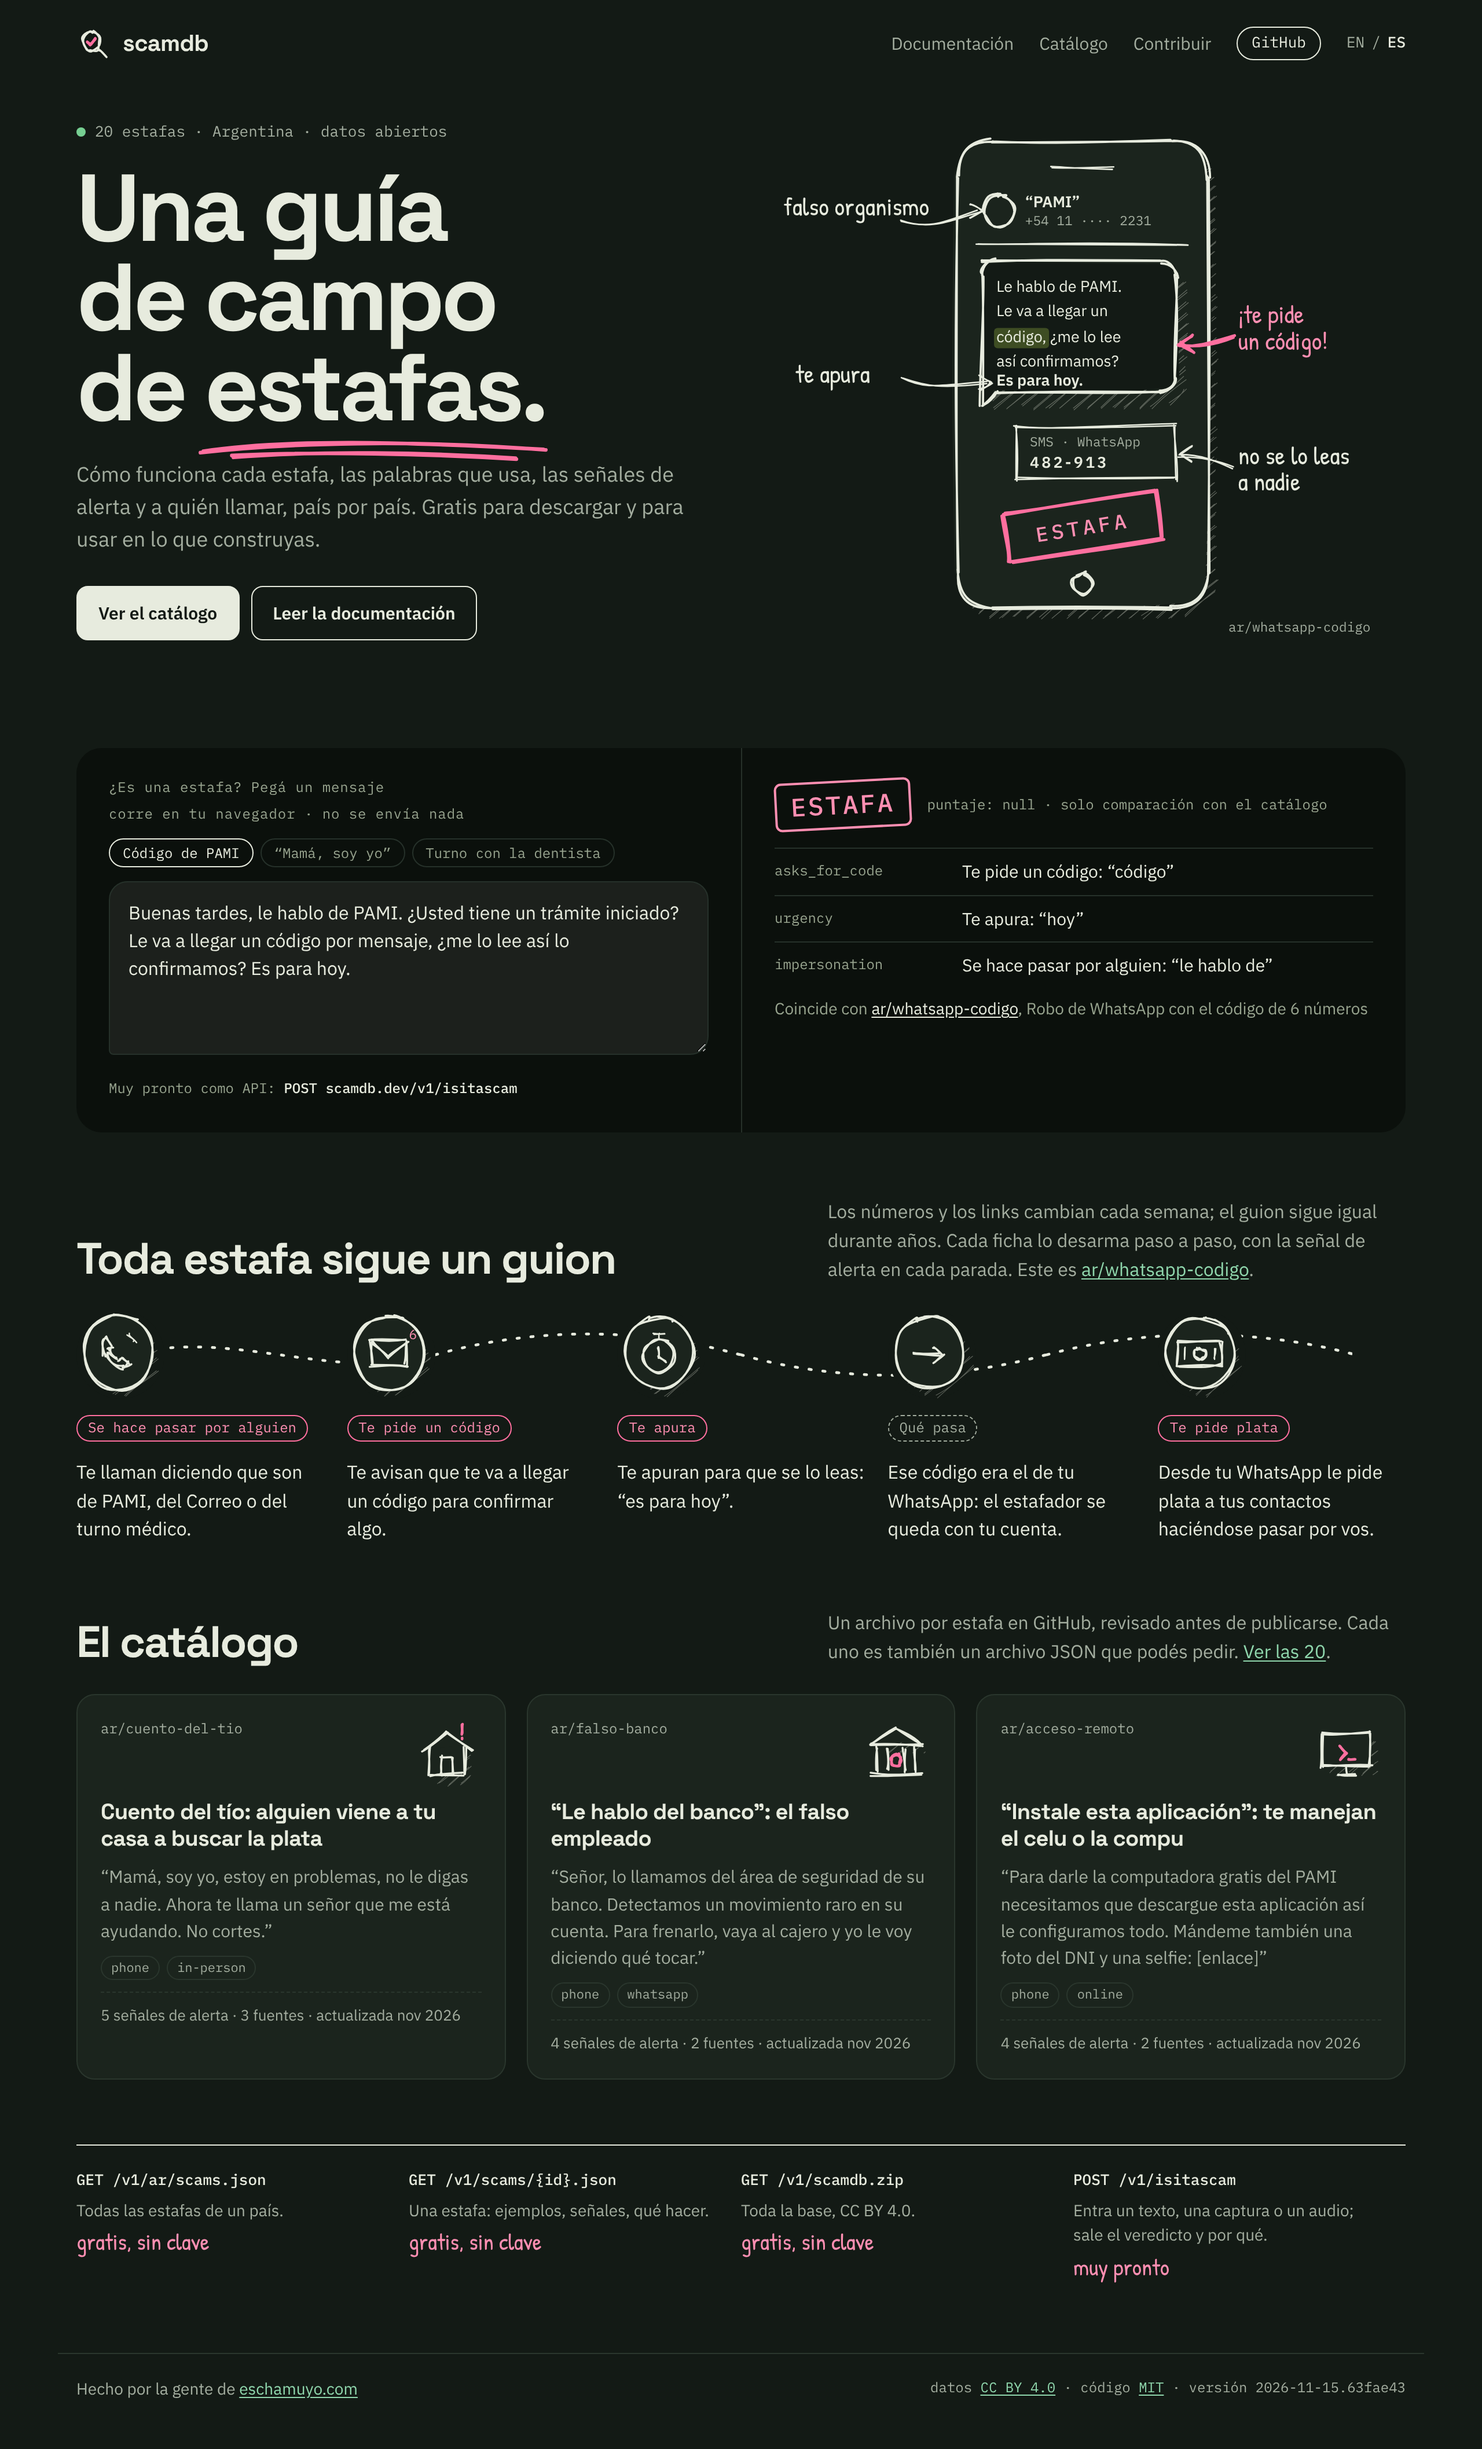
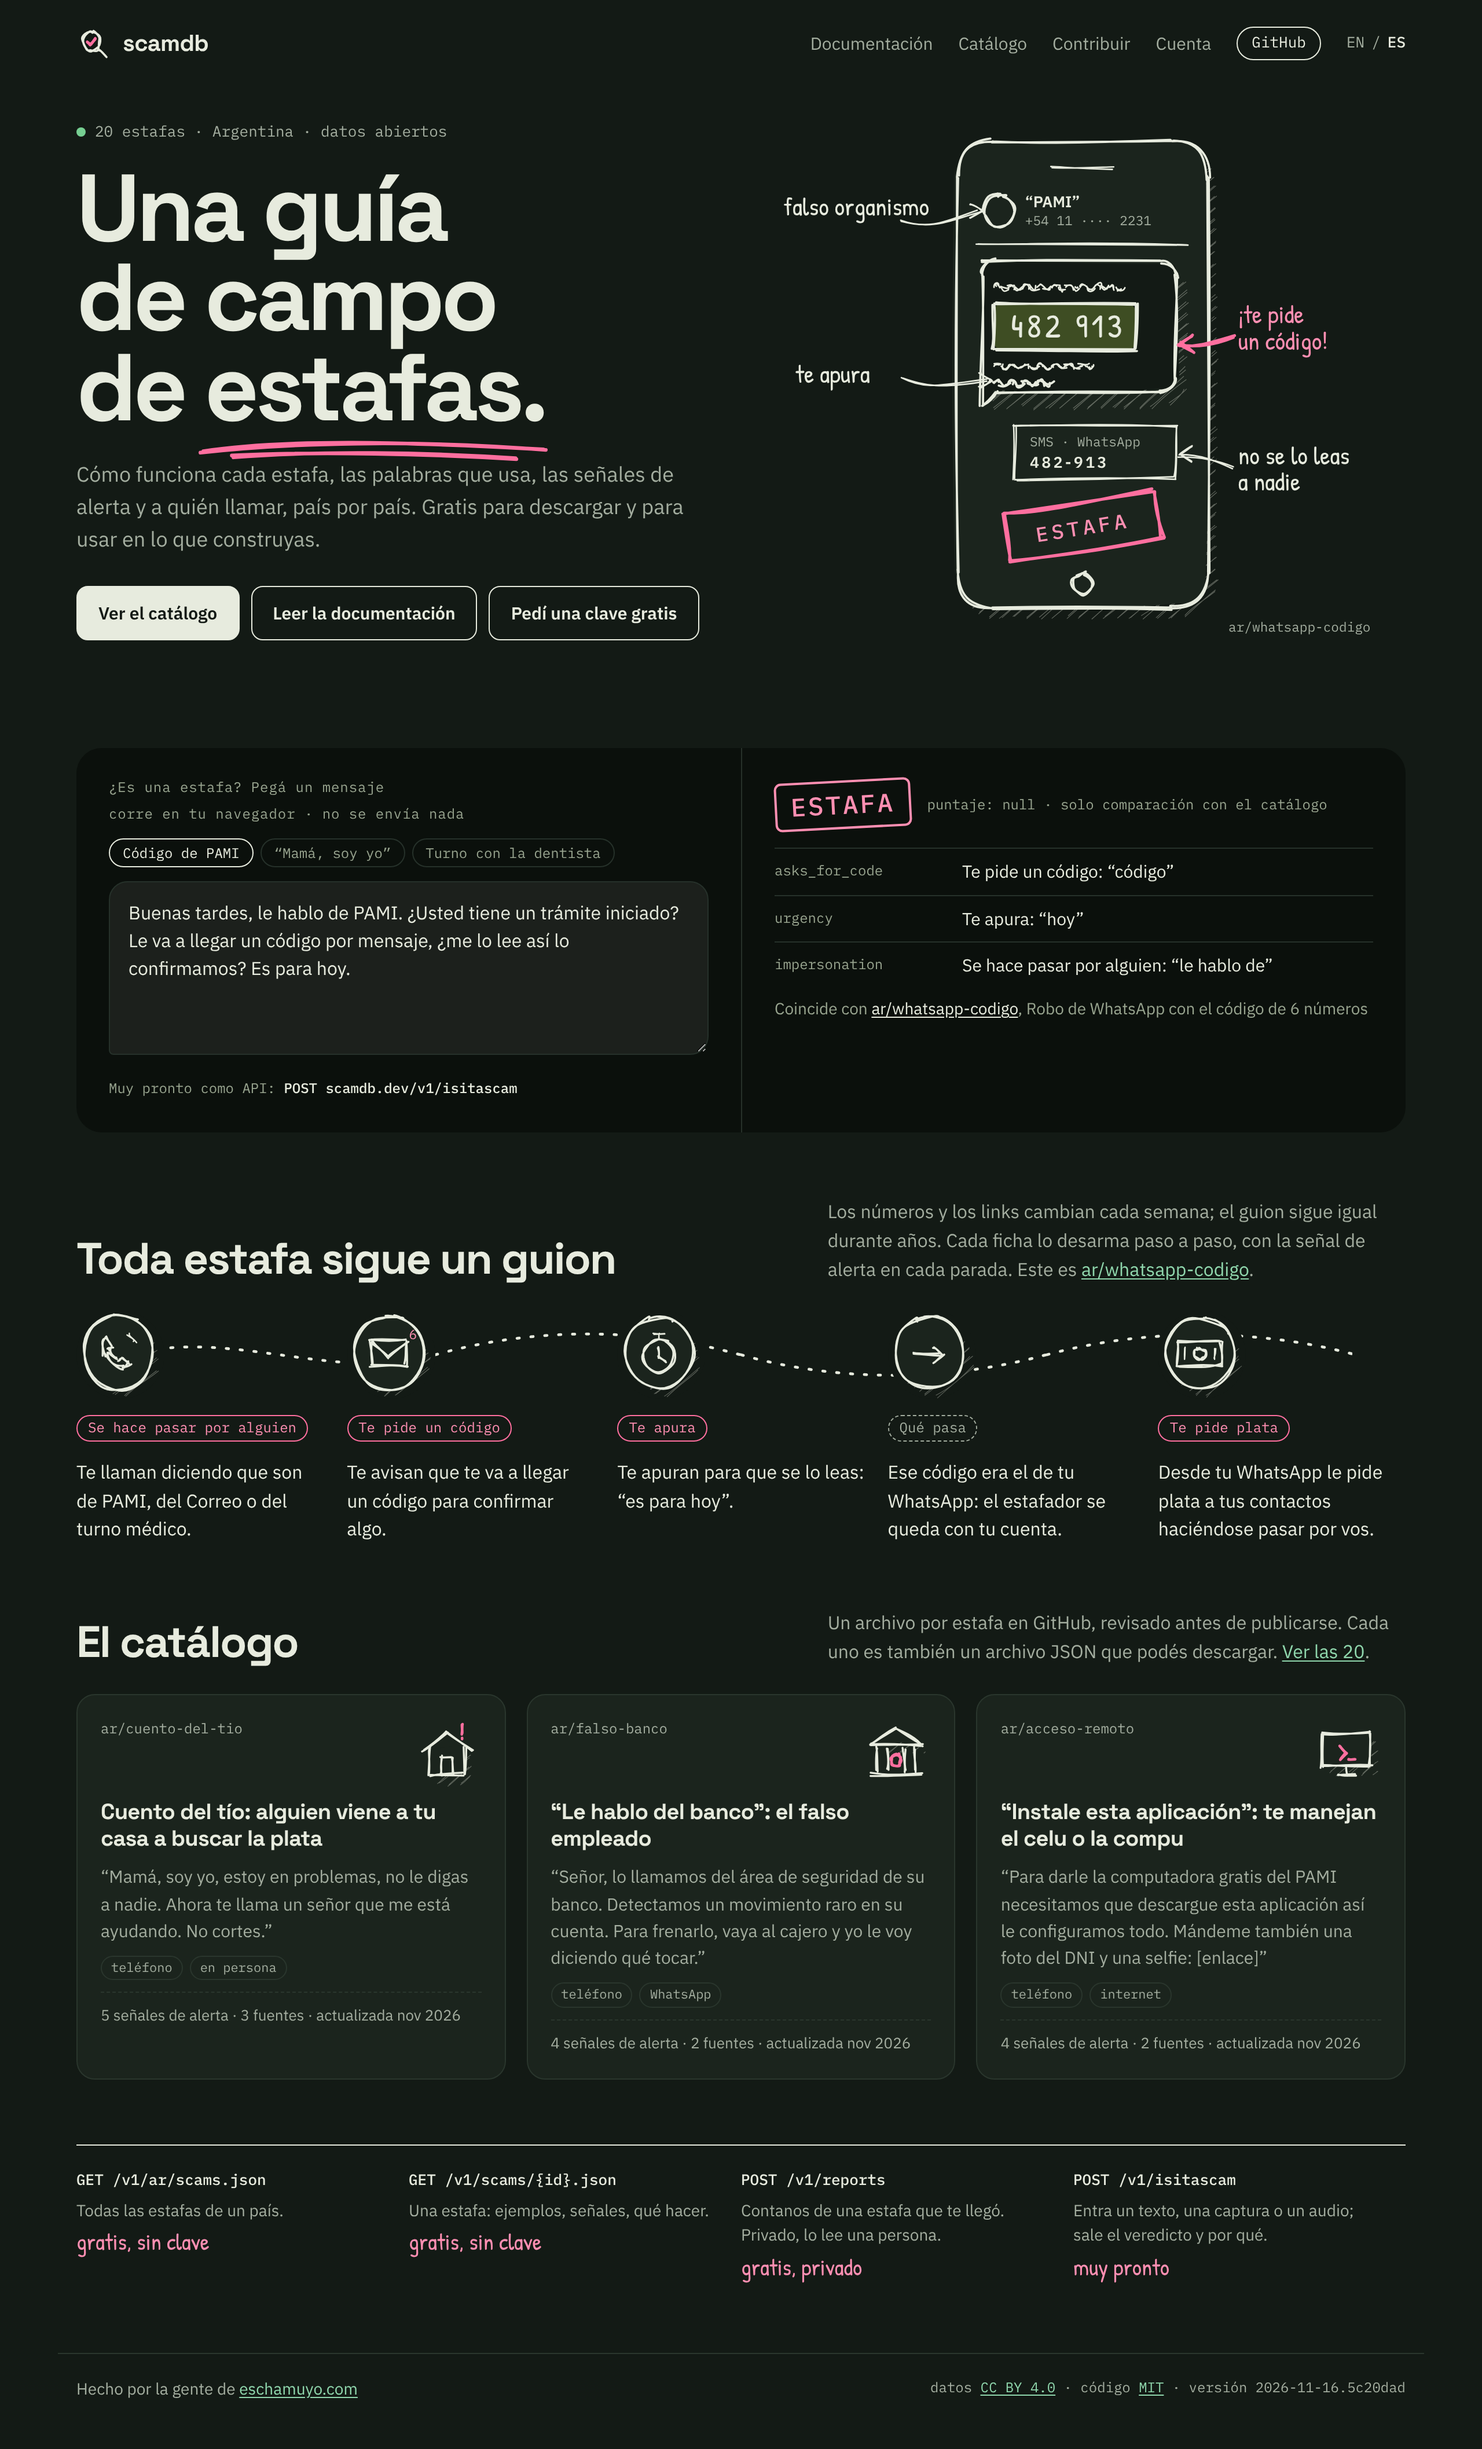
feat(site): hero bubble shows a scribble and a big code instead of a Spanish sentence
Claude-Session: https://claude.ai/code/session_018T2J1K6Mk5un4HEeZgARrY

Changed region(s): [[0.6562, 0.0936, 0.7812, 0.156], [0.5, 0.8738, 0.5938, 0.9362], [0.8438, 0.6553, 0.875, 0.6865]]

diff --git a/site/templates/home.js b/site/templates/home.js
@@ -14,6 +14,9 @@ export const SAMPLES = [
 ];
 const VERDICT_KEY = { scam: 'vScam', suspicious: 'vSuspicious', not_recognised: 'vNone' };
 
+/** A wavy pen line `w` wide: stands in for text in drawings. */
+const wave = (x, y, w) => { let d = `M${x} ${y}`; for (let i = 0; i < w; i += 12) d += ' q3 -4 6 0 t6 0'; return d; };
+
 const HERO_ART = (() => {
   const k = sketch(601);
   const bx = 174, bw = 162, tx = bx + 24;
@@ -25,13 +28,15 @@ ${k.line(245, 52, 295, 52, { kind: 'thin' })}${k.circle(270, 400, 18)}${k.circle
 <text class="t-ui" x="222" y="85" font-weight="600">“PAMI”</text><text class="t-mono" x="222" y="100">+54 11 ···· 2231</text>
 ${k.line(182, 116, 358, 116, { kind: 'thin' })}
 ${k.path(`M${bx + 12} 130 h${bw - 12} a12 12 0 0 1 12 12 v86 a12 12 0 0 1 -12 12 h-${bw - 24} l-12 12 v-110 a12 12 0 0 1 12 -12 z`, { fill: 'paper', shade: true })}
-<rect class="f-hl" x="${tx - 2}" y="186" width="46" height="17" rx="3"/>
-<text class="t-ui" x="${tx}" y="156">Le hablo de PAMI.</text><text class="t-ui" x="${tx}" y="176">Le va a llegar un</text><text class="t-ui" x="${tx}" y="198">código, ¿me lo lee</text><text class="t-ui" x="${tx}" y="218">así confirmamos?</text><text class="t-ui" x="${tx}" y="234" font-weight="600" font-size="12">Es para hoy.</text>
+${k.path(wave(tx - 2, 152, 108), { kind: 'thin' })}
+<rect class="f-hl" x="${tx - 2}" y="166" width="118" height="38" rx="6"/>${k.rect(tx - 2, 166, 118, 38)}
+<text class="t-code-big" x="${tx + 12}" y="194">482 913</text>
+${k.path(wave(tx - 2, 218, 84), { kind: 'thin' })}${k.path(wave(tx - 2, 232, 48))}
 ${k.rect(214, 268, 134, 44, { kind: 'thin' })}
 <text class="t-mono" x="226" y="285">SMS · WhatsApp</text><text class="t-ui" x="226" y="303" font-weight="600" letter-spacing="2">482-913</text>
 <g transform="rotate(-9 270 352)">${k.rect(206, 332, 128, 40, { kind: 'acc' })}<text x="270" y="359" text-anchor="middle" class="t-stamp">${'${stamp}'}</text></g>
 <text class="t-hand" x="20" y="92">${'${n1}'}</text>${arrow('M118 96 C 145 104, 160 94, 184 88', 'M176 82 L186 88 L176 94')}
-<text class="t-hand" x="30" y="232">${'${n2}'}</text>${arrow(`M120 228 C 140 236, 150 236, ${tx - 6} 232`, `M${tx - 14} 226 L${tx - 4} 232 L${tx - 14} 238`)}
+<text class="t-hand" x="30" y="232">${'${n2}'}</text>${arrow(`M120 228 C 140 236, 150 236, ${tx - 6} 230`, `M${tx - 14} 224 L${tx - 4} 230 L${tx - 14} 236`)}
 <text class="t-hand-acc" x="400" y="182">${'${n3a}'}</text><text class="t-hand-acc" x="400" y="204">${'${n3b}'}</text>${arrow('M396 194 C 380 200, 368 202, 352 199', 'M362 192 L351 199 L362 206', 'acc')}
 <text class="t-hand" x="400" y="300">${'${n4a}'}</text><text class="t-hand" x="400" y="322">${'${n4b}'}</text>${arrow('M396 302 C 380 298, 366 294, 352 292', 'M361 285 L351 292 L361 298')}
 <text class="t-mono" x="392" y="440">ar/whatsapp-codigo</text></svg>`;

diff --git a/site/assets/styles.css b/site/assets/styles.css
@@ -50,6 +50,7 @@ code, .mono { font-family: var(--mono); font-size: .9em; }
 .t-ui { font-family: var(--body); fill: var(--ink); font-size: 13px; }
 .t-mono { font-family: var(--mono); fill: var(--dim); font-size: 11px; }
 .t-code { font-family: var(--mono); fill: var(--accent-ink); font-size: 12px; }
+.t-code-big { font-family: var(--hand); fill: var(--ink); font-size: 28px; letter-spacing: 3px; }
 .t-stamp { font-family: var(--mono); fill: var(--accent-ink); font-size: 17px; font-weight: 500; letter-spacing: 3px; }
 
 /* header / footer */
